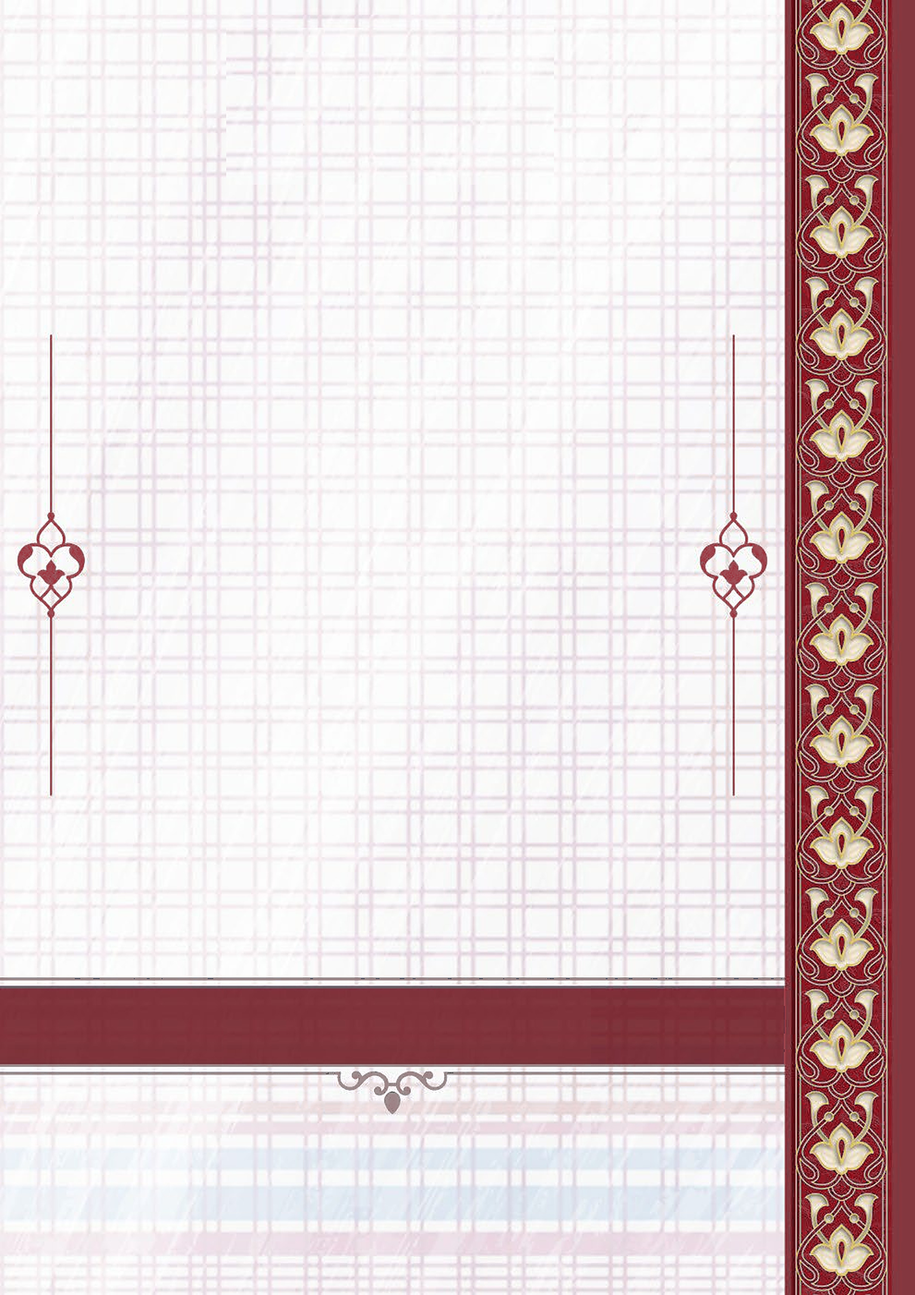
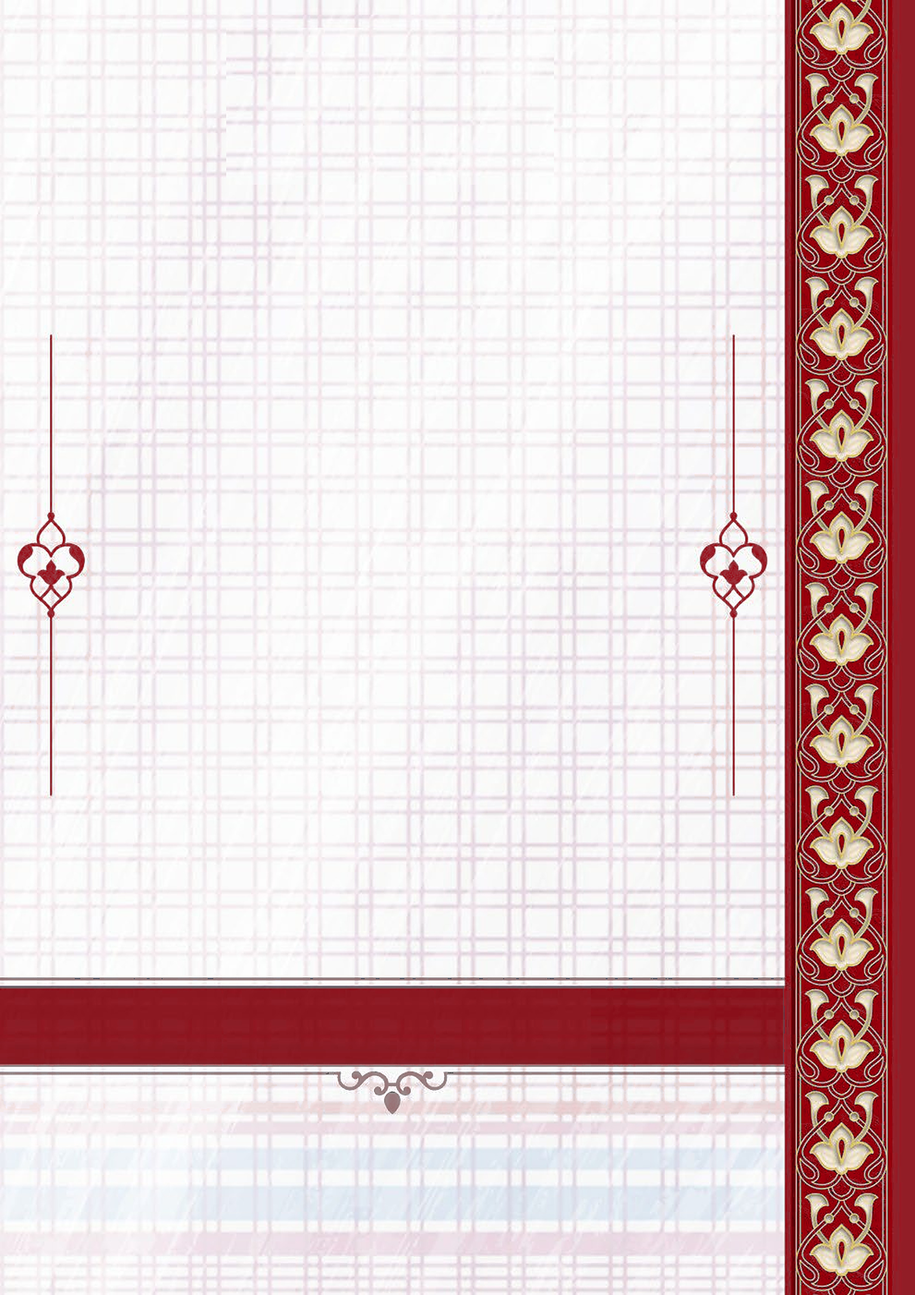
Brighter blood-red palette, Salam Arz honorifics, seated page numbers, larger cover text
- Base colour #7F343B -> #8C1A24 across cover strip, bar, ornaments, border, logos and headings
- Inline {as} / {saw} markup renders small «ع م» and «صلع»; Salam Arz uses them on every line
- Page numbers centred in the border's number slot at 15pt
- Cover: ماتم مجلس 44 -> 66pt, date line 17 -> 25pt

Changed region(s): [[0.0, 0.0, 1.0, 1.0], [0.0, 0.4039, 0.0931, 0.4661]]

diff --git a/src/booklet/booklet.css b/src/booklet/booklet.css
@@ -5,12 +5,12 @@
 }
 
 :root {
-  --maroon: #7f343b; /* the cover bar: base colour */
-  --maroon-deep: #6a2a31; /* cover title */
-  --maroon-tint: #f1e1e2; /* fihrist header bar (was lavender) */
-  --rose-tint: #f8eded; /* fihrist section bars (was green) */
-  --rule: #7f343b; /* fihrist row rules */
-  --divider: #c9a0a4; /* thin line between kalams */
+  --maroon: #8c1a24; /* blood-red maroon: base colour (cover bar) */
+  --maroon-deep: #7a1520; /* cover title */
+  --maroon-tint: #f6dadd; /* fihrist header bar (was lavender) */
+  --rose-tint: #fbeced; /* fihrist section bars (was green) */
+  --rule: #8c1a24; /* fihrist row rules */
+  --divider: #d8939a; /* thin line between kalams */
   --gold: #c18144; /* fihrist column headings */
   --navy: #3a456a; /* fihrist entries */
   --cream: #f7ead7; /* text on the maroon bar */
@@ -74,20 +74,20 @@
 }
 
 .cover-title.main {
-  top: 205pt;
+  top: 190pt;
   font-size: 90pt;
   color: var(--maroon-deep);
 }
 
 .cover-title.sub {
-  top: 378pt;
-  font-size: 44pt;
+  top: 345pt;
+  font-size: 66pt;
   color: var(--maroon-deep);
 }
 
 .cover-title.date {
-  top: 452pt;
-  font-size: 17pt;
+  top: 470pt;
+  font-size: 25pt;
   color: var(--sanat-blue);
 }
 
@@ -110,7 +110,8 @@
   font-size: 45%;
   display: inline-block;
   vertical-align: 0.35em;
-  margin: 0 0.2em;
+  /* physical sides: the booklet is always right-to-left */
+  margin: 0 0.3em 0 0.55em;
 }
 
 .honorific .m {
@@ -127,17 +128,23 @@
   unicode-bidi: isolate;
   font-family: Georgia, 'Times New Roman', serif;
   font-size: 66%;
+  margin-right: 0.45em;
 }
 
 /* ---------- inner pages ---------- */
+/* Sits in the border's number slot: x 285.2–309.7pt, y 816.5–834.5pt. */
 .page-number {
   position: absolute;
-  left: 0;
-  right: 0;
-  top: 806pt;
-  text-align: center;
-  font-size: 13pt;
-  line-height: 1;
+  left: 285.2pt;
+  width: 24.5pt;
+  top: 816.5pt;
+  height: 18pt;
+  display: flex;
+  align-items: center;
+  justify-content: center;
+  font-size: 15pt;
+  line-height: 18pt;
+  white-space: nowrap;
 }
 
 .content {
@@ -162,8 +169,11 @@
 
 .block-text {
   text-align: center;
-  white-space: pre-wrap;
   margin-bottom: 10pt;
+}
+
+.block-text .line {
+  line-height: 2.1;
 }
 
 .separator {

diff --git a/src/booklet/Booklet.tsx b/src/booklet/Booklet.tsx
@@ -2,28 +2,10 @@ import { Fragment } from 'react';
 import { arabicNumber, dateLine, raatTitle } from '../lib/hijri';
 import { Booklet as Doc, CATEGORY_LABEL, VENUES } from './model';
 import { Layout, Page, PlacedItem } from './paginate';
+import { RichText } from './RichText';
 import './booklet.css';
 
 const A = '/assets';
-
-function Location({ text }: { text: string }) {
-  // `{as}` marks the small raised «ع م» honorific; Latin runs keep LTR order.
-  const [before, after = ''] = text.split('{as}');
-  const latin = /\(([A-Za-z].*)\)$/.exec(after);
-  const arabic = latin ? after.slice(0, latin.index) : after;
-  return (
-    <span>
-      {before}
-      {text.includes('{as}') && (
-        <span className="honorific">
-          ع<span className="m">م</span>
-        </span>
-      )}
-      {arabic}
-      {latin && <span className="latin">({latin[1]})</span>}
-    </span>
-  );
-}
 
 function Logos({ karbalaWidth, faizHeight }: { karbalaWidth: number; faizHeight: number }) {
   return (
@@ -46,7 +28,7 @@ function Cover({ doc }: { doc: Doc }) {
       <div className="cover-title sub">ماتم مجلس</div>
       <div className="cover-title date">{dateLine(date)}</div>
       <div className="cover-location">
-        <Location text={VENUES[doc.venue].location} />
+        <RichText text={VENUES[doc.venue].location} />
       </div>
       <img className="abs" src={`${A}/sanat-1448.svg`} style={{ left: '144.86pt', top: '741.42pt', width: '219.6pt' }} alt="" />
     </section>
@@ -120,7 +102,11 @@ function Item({ item }: { item: PlacedItem }) {
       }
       return (
         <div className="block-text" id={item.anchor} style={{ fontSize: `${item.block.sizePt}pt`, color: item.block.color }}>
-          {item.block.text}
+          {item.block.text.split('\n').map((line, i) => (
+            <div className="line" key={i}>
+              <RichText text={line} />
+            </div>
+          ))}
         </div>
       );
     case 'separator':

diff --git a/src/booklet/sample.ts b/src/booklet/sample.ts
@@ -15,15 +15,15 @@ const img = (src: string, width: number, height: number, widthPt: number): Image
 });
 
 export const SALAM_ARZ_TEXT = [
-  'السلام عليك يا أبا عبد الله ×٢',
-  'السلام عليك يا رسول الله',
-  'السلام عليك يا أمير المؤمنين',
-  'السلام عليك يا فاطمة الزهراء',
-  'السلام عليك يا حسن المجتبى',
-  'السلام عليك يا أبا الفضل العباس',
-  'السلام عليك يا مولاتنا زينب',
-  'السلام عليكم يا شهداء كربلاء',
-  'السلام عليك يا أبا عبد الله ×٢',
+  'السلام عليك يا أبا عبد الله{as} ×٢',
+  'السلام عليك يا رسول الله{saw}',
+  'السلام عليك يا أمير المؤمنين{as}',
+  'السلام عليك يا فاطمة الزهراء{as}',
+  'السلام عليك يا حسن المجتبى{as}',
+  'السلام عليك يا أبا الفضل العباس{as}',
+  'السلام عليك يا مولاتنا زينب{as}',
+  'السلام عليكم يا شهداء كربلاء{as}',
+  'السلام عليك يا أبا عبد الله{as} ×٢',
 ].join('\n');
 
 const kalamsFor = (category: Category): Kalam[] => {

diff --git a/src/booklet/RichText.tsx b/src/booklet/RichText.tsx
@@ -1,0 +1,39 @@
+import { Fragment, ReactNode } from 'react';
+
+// Inline markup for booklet text:
+//   {as}  → small «ع م» (alayhis-salaam), ع raised and م smaller below it
+//   {saw} → small «صلع» (salla Allahu alayhi wa aalihi), same style
+//   (Latin text) → set in a Latin face; Kanz al-Marjaan draws 0–9 as Arabic digits
+const TOKEN = /(\{as\}|\{saw\}|\([A-Za-z][^)]*\))/;
+
+function renderToken(tok: string, key: number): ReactNode {
+  if (tok === '{as}') {
+    return (
+      <span className="honorific" key={key}>
+        ع<span className="m">م</span>
+      </span>
+    );
+  }
+  if (tok === '{saw}') {
+    return (
+      <span className="honorific" key={key}>
+        صلع
+      </span>
+    );
+  }
+  if (TOKEN.test(tok) && tok.startsWith('(')) {
+    return (
+      <span className="latin" key={key}>
+        {tok}
+      </span>
+    );
+  }
+  return <Fragment key={key}>{tok}</Fragment>;
+}
+
+export function RichText({ text }: { text: string }) {
+  return <>{text.split(TOKEN).filter(Boolean).map(renderToken)}</>;
+}
+
+/** Plain-text form (fihrist names, PDF title): markers dropped. */
+export const stripMarkup = (text: string) => text.replace(/\{as\}|\{saw\}/g, '').replace(/\s+/g, ' ').trim();

diff --git a/tools/build_assets.py b/tools/build_assets.py
@@ -5,8 +5,8 @@ Run once (outputs are committed):
     .venv/bin/python tools/build_assets.py
 
 Everything here is derived from references/HA_5mi Raat Majlis 1448h.pdf:
-the purple accents become the maroon of the cover bar (#7F343B), gold and the
-grid background are left untouched.
+the purple accents (and the cover bar) become a lively blood-red maroon
+(#8C1A24); gold and the grid background are left untouched.
 """
 from pathlib import Path
 
@@ -19,7 +19,7 @@ REF = ROOT / "references" / "HA_5mi Raat Majlis 1448h.pdf"
 OUT = ROOT / "public" / "assets"
 
 A4_PX = (2480, 3508)  # 300 dpi
-MAROON_HUE = 354 / 360  # hue of the cover bar, rgb(127,52,59)
+MAROON_HUE = 355 / 360  # base colour rgb(140,26,36) = #8C1A24
 
 # Image xrefs inside the reference PDF.
 XREF_COVER = 1100
@@ -61,15 +61,19 @@ def hsv_to_rgb(a):
     return np.clip(out * 255, 0, 255)
 
 
-def purple_to_maroon(rgb, region=None, min_sat=0.08, s_mul=0.94, v_mul=1.53, v_cap=0.62):
-    """Re-hue purple pixels (hue 260-340 deg) to maroon; gold/cream/white untouched."""
+def purple_to_maroon(rgb, region=None, min_sat=0.08, s_mul=1.29, v_mul=1.69, v_cap=0.6, hues=(260, 345)):
+    """Re-hue pixels in the `hues` range (purple by default) to the base maroon;
+    gold/cream/white are untouched. Defaults map the cover's purple rgb(83,31,77)
+    onto the base rgb(140,26,36)."""
     hsv = rgb_to_hsv(rgb.astype(float))
     h, s = hsv[..., 0] * 360, hsv[..., 1]
-    mask = (h >= 260) & (h <= 345) & (s >= min_sat)
+    lo, hi = hues
+    in_range = ((h >= lo) & (h <= hi)) if lo <= hi else ((h >= lo) | (h <= hi))
+    mask = in_range & (s >= min_sat)
     if region is not None:
         mask &= region
-    # Purple sits darker than maroon at the same "weight"; lift V so the strip
-    # lands on the bar's maroon instead of a muddy brown.
+    # Purple sits darker than the target red; lift V so the strip lands on the
+    # base colour instead of a muddy brown.
     new = hsv.copy()
     new[..., 0] = np.where(mask, MAROON_HUE, hsv[..., 0])
     new[..., 1] = np.where(mask, np.clip(s * s_mul, 0, 1), s)
@@ -115,6 +119,9 @@ def build_cover(doc):
         | box(src.shape, 0, 1152, 848, 1210)
     )
     cover = purple_to_maroon(clean, region, min_sat=0.04)
+    # The bar itself was a greyish maroon rgb(127,52,59); bring it to the base.
+    bar_region = box(src.shape, 0, 1066, 848, 1154)
+    cover = purple_to_maroon(cover, bar_region, min_sat=0.2, s_mul=1.37, v_mul=1.1, v_cap=0.7, hues=(330, 20))
 
     img = Image.fromarray(cover.astype(np.uint8)).resize(A4_PX, Image.LANCZOS)
     img = img.filter(ImageFilter.UnsharpMask(radius=2, percent=60, threshold=2))
@@ -136,8 +143,9 @@ def build_cover(doc):
 def build_border(doc):
     raw = doc.extract_image(XREF_BORDER)
     src = np.array(Image.open(__import__("io").BytesIO(raw["image"])).convert("RGB")).astype(float)
-    # A soft, light maroon: same hue as the bar, a touch deeper than the lavender.
-    out = purple_to_maroon(src, None, min_sat=0.03, s_mul=1.15, v_mul=1.0, v_cap=1.0)
+    # A light, lively red-maroon: the base hue at roughly twice the lavender's
+    # saturation, a shade deeper.
+    out = purple_to_maroon(src, None, min_sat=0.03, s_mul=2.0, v_mul=0.93, v_cap=1.0)
     Image.fromarray(out.astype(np.uint8)).save(OUT / "page-border.jpg", quality=92, subsampling=0)
 
 
